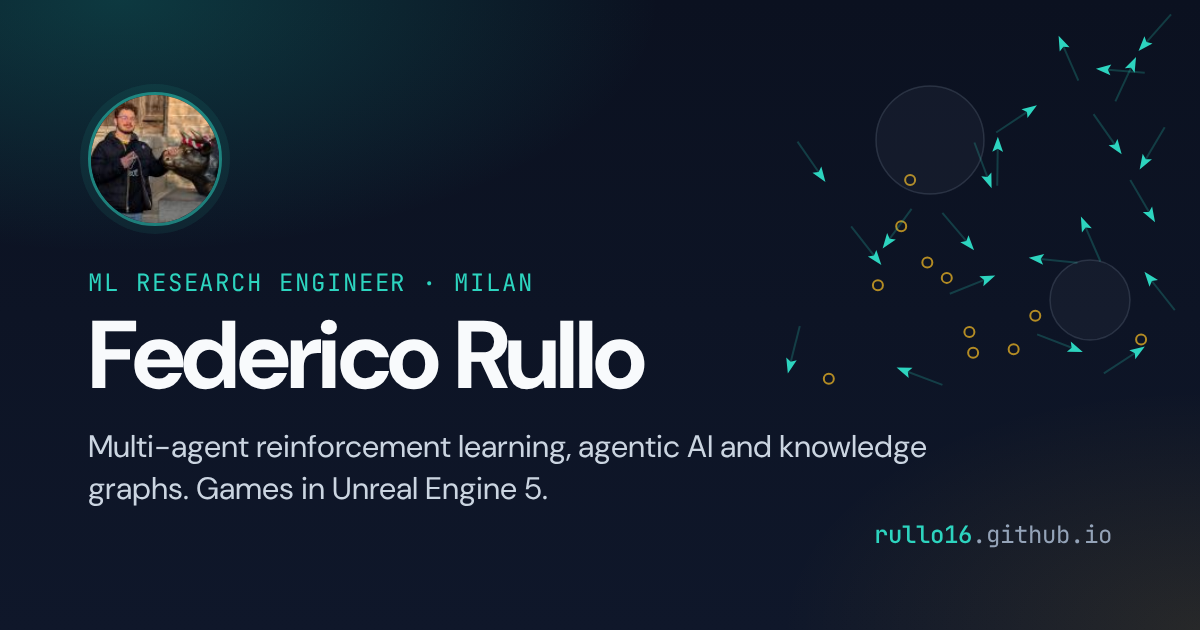
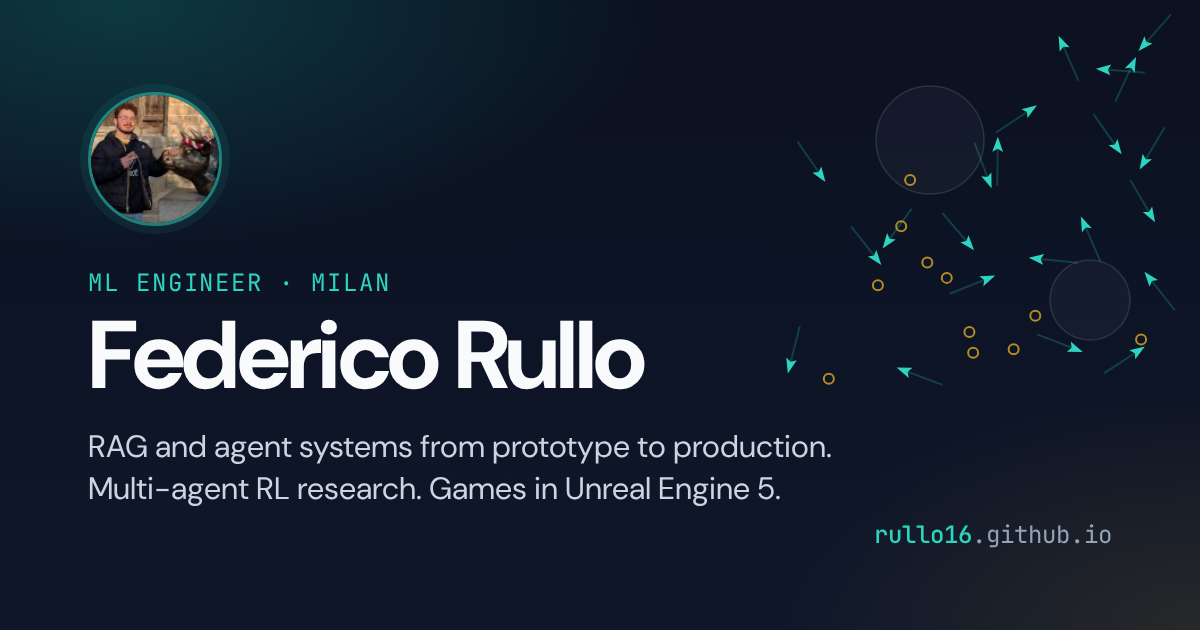
Align site with latest CV (#2)
- Title is now ML Engineer everywhere (hero, footer, SEO, social card)
  and the contact email is rullofederico@pm.me, matching the CV
- Home stats: 7 EU research projects (was 3) and a new tile for the
  large RAG fast-prototyping project; the row now wraps cleanly at any
  width
- Experience at GFT restructured per CV: Smart Compliance (team lead,
  4 engineers), VIGILANCE (task lead, 2 workstreams), REAICT, KYKLOS,
  and research and EU proposals (€2M+ secured, GRAVITON and AGENTIUM)
- Kyushu internship per CV: Oct 2024 to Apr 2025, MAPPO vs SAC,
  training-collapse fix, 96% success and 1.9x sample efficiency
- Projects: new Smart Compliance, REAICT and KYKLOS cards, VIGILANCE card
  rewritten, new RAG & agents and Data engineering filters
- Education: years added, MSc marked as coursework and dissertation
  completed (degree not conferred), BSc title matches the CV
- Skills regrouped to match the CV (LLMs & retrieval, agent frameworks,
  MLOps, data and storage, backend and infrastructure)
- Remove the Dungeon Adventure card: it is the same game as the HD-2D
  project
- Hero swarm: keep open space below the text on phones so goals never
  land on the text or icons

Claude-Session: https://claude.ai/code/session_01FXam8xwrwBDdLGjsupuZwB

Changed region(s): [[0.0617, 0.6937, 0.7708, 0.8143], [0.1233, 0.4222, 0.3392, 0.4825], [0.37, 0.4222, 0.4625, 0.4825]]

diff --git a/index.html b/index.html
@@ -14,14 +14,16 @@ scripts:
   <div class="hero__inner container">
     <div class="hero__content" data-swarm-avoid>
       <img class="hero__photo" src="{{ '/assets/profile-picture.jpg' | relative_url }}" alt="Portrait of Federico Rullo" width="104" height="104">
-      <p class="eyebrow eyebrow--hero">ML Research Engineer · Milan</p>
+      <p class="eyebrow eyebrow--hero">ML Engineer · Milan</p>
       <h1 class="hero__title" id="hero-title">Federico Rullo</h1>
       <p class="hero__lede">
-        I'm an ML Research Engineer at <strong>GFT Technologies SE</strong> in Milan, with
-        {{ years }}+ years of experience building production-grade AI systems and
-        leading EU-funded research projects.
+        I'm an ML Engineer at <strong>GFT Technologies SE</strong> in Milan, with
+        {{ years }}+ years of experience building and operating production AI systems and
+        leading teams on EU research projects. I take systems from prototype to commercial
+        deployment: retrieval and agent architecture, the backend that serves it, and the
+        MLOps and evaluation that make it safe to ship.
       </p>
-      <p class="hero__topics">Multi-agent RL · Agentic AI · Knowledge graphs · Game development</p>
+      <p class="hero__topics">RAG &amp; agents · MLOps · Multi-agent RL · Game development</p>
       <div class="hero__actions">
         <a class="btn btn--primary" href="{{ '/projects/' | relative_url }}">See my projects {% include icon.html name="arrow-right" px=16 %}</a>
         <a class="btn btn--ghost" href="mailto:{{ site.email }}">{% include icon.html name="mail" px=16 %} Get in touch</a>
@@ -41,7 +43,8 @@ scripts:
 <div class="container">
   <ul class="stats" aria-label="At a glance">
     <li class="stat"><span class="stat__value">{{ years }}+</span><span class="stat__label">Years in ML engineering</span></li>
-    <li class="stat"><span class="stat__value">3</span><span class="stat__label">EU research projects</span></li>
+    <li class="stat"><span class="stat__value">7</span><span class="stat__label">EU research projects</span></li>
+    <li class="stat"><span class="stat__value">1</span><span class="stat__label">Large RAG fast-prototyping project</span></li>
     <li class="stat"><span class="stat__value">3</span><span class="stat__label">Countries lived in</span></li>
     <li class="stat"><span class="stat__value">3</span><span class="stat__label">Languages spoken</span></li>
   </ul>
@@ -53,14 +56,14 @@ scripts:
     </div>
     <div class="grid grid--2">
       <article class="card now">
-        <p class="now__kicker">EU project</p>
+        <p class="now__kicker">EU project · Task lead</p>
         <h3>VIGILANCE</h3>
-        <p>Leading two tasks in an EU-funded Zero Trust Architecture cybersecurity platform: Data &amp; Knowledge Modelling (T5.1) and CyberSec Agents Orchestration (T5.4).</p>
+        <p>Leading the agent repository and orchestration workstreams of a cybersecurity agent platform: tool-using LangGraph agents over a Neo4j knowledge graph and Qdrant retrieval, with the evaluation harness and MLOps that decide what reaches production.</p>
       </article>
       <article class="card now">
-        <p class="now__kicker">Research consortium</p>
-        <h3>AGENTIUM</h3>
-        <p>Contributing to a consortium project on agentic AI systems and shaping GFT's technical strategy across multiple AI pillars.</p>
+        <p class="now__kicker">Research funding</p>
+        <h3>EU Horizon proposals</h3>
+        <p>Writing the AI side of EU proposals: €2M+ secured so far, plus technical contributions to the €45M GRAVITON and €35M AGENTIUM consortium bids.</p>
       </article>
       <article class="card now">
         <p class="now__kicker">Game development</p>
@@ -118,7 +121,7 @@ scripts:
 
   <section class="section contact" aria-labelledby="contact-title">
     <h2 id="contact-title">Let's talk</h2>
-    <p>Questions about multi-agent RL, agentic AI or one of my projects? Email is the quickest way to reach me.</p>
+    <p>Questions about RAG, agents, multi-agent RL or one of my projects? Email is the quickest way to reach me.</p>
     <div class="contact__actions">
       <a class="btn btn--primary" href="mailto:{{ site.email }}">{% include icon.html name="mail" px=16 %} {{ site.email }}</a>
       <a class="btn btn--ghost" href="https://www.linkedin.com/in/federico-rullo-683677145" target="_blank" rel="noopener">{% include icon.html name="linkedin" px=16 %} LinkedIn</a>

diff --git a/assets/css/main.css b/assets/css/main.css
@@ -341,6 +341,8 @@ kbd {
 }
 .hero__swarm { position: absolute; inset: 0; width: 100%; height: 100%; z-index: -1; }
 .hero__inner { padding-top: clamp(56px, 9vw, 104px); padding-bottom: clamp(88px, 11vw, 128px); }
+/* On phones the text fills the width, so leave open sky below it for the swarm. */
+@media (max-width: 640px) { .hero__inner { padding-bottom: 136px; } }
 .hero__content { max-width: 680px; }
 .hero__photo {
   width: 104px; height: 104px; border-radius: 50%; object-fit: cover; margin-bottom: 24px;
@@ -376,19 +378,13 @@ kbd {
 /* ── Home ───────────────────────────────────────────────────────────────── */
 .stats {
   position: relative; z-index: 1;
-  display: grid; grid-template-columns: repeat(4, 1fr); list-style: none;
+  display: flex; flex-wrap: wrap; gap: 1px; list-style: none; overflow: hidden;
   margin-top: -48px;
-  background: var(--surface); border: 1px solid var(--border); border-radius: var(--radius); box-shadow: var(--shadow-md);
+  background: var(--border); border: 1px solid var(--border); border-radius: var(--radius); box-shadow: var(--shadow-md);
 }
-.stat { display: flex; flex-direction: column; gap: 2px; padding: 22px 24px; }
-.stat + .stat { border-left: 1px solid var(--border); }
+.stat { flex: 1 1 160px; display: flex; flex-direction: column; gap: 2px; padding: 22px 24px; background: var(--surface); }
 .stat__value { font-size: clamp(1.8rem, 3.4vw, 2.3rem); font-weight: 700; letter-spacing: -0.03em; color: var(--text); line-height: 1.1; }
 .stat__label { font-size: 0.88rem; color: var(--text-3); }
-@media (max-width: 720px) {
-  .stats { grid-template-columns: 1fr 1fr; }
-  .stat:nth-child(3) { border-left: 0; }
-  .stat:nth-child(n + 3) { border-top: 1px solid var(--border); }
-}
 
 .now__kicker { font-family: var(--font-mono); font-size: 0.74rem; letter-spacing: 0.06em; text-transform: uppercase; color: var(--accent); margin-bottom: 6px; }
 .now h3 { margin-bottom: 8px; }
@@ -489,6 +485,11 @@ tr.is-highlight th, tr.is-highlight td { color: var(--text); font-weight: 700; b
 .job__meta { display: flex; flex-direction: column; gap: 4px; margin: 0; font-size: 0.88rem; color: var(--text-3); }
 .job__meta span { display: inline-flex; align-items: center; gap: 6px; }
 .job__summary { font-size: 1.02rem; color: var(--text); }
+.job__section-meta {
+  display: inline-block; margin-left: 10px; padding: 1px 8px; border-radius: 999px;
+  font-family: var(--font-body); font-size: 0.74rem; font-weight: 600; letter-spacing: 0; text-transform: none;
+  color: var(--amber); background: var(--amber-soft); vertical-align: 1px;
+}
 .job__section {
   font-family: var(--font-mono); font-size: 0.76rem; font-weight: 500; letter-spacing: 0.08em; text-transform: uppercase;
   color: var(--accent); margin: 24px 0 12px;
@@ -536,6 +537,8 @@ tr.is-highlight th, tr.is-highlight td { color: var(--text); font-weight: 700; b
 .edu__school { display: flex; flex-wrap: wrap; gap: 4px 12px; font-weight: 600; }
 .edu__school a { text-decoration: none; }
 .edu__place { font-weight: 400; color: var(--text-3); }
+.edu__years { display: inline-flex; align-items: center; gap: 6px; margin: 0 0 4px; font-size: 0.88rem; color: var(--text-3); }
+.edu__status { font-size: 0.9rem; color: var(--text-2); margin: 0 0 8px; }
 .edu__thesis { margin-top: 8px; padding: 16px; border-radius: var(--radius-sm); background: var(--surface-2); border: 1px solid var(--border); }
 .edu__label { font-family: var(--font-mono); font-size: 0.72rem; letter-spacing: 0.08em; text-transform: uppercase; color: var(--text-3); margin-bottom: 4px; }
 .edu__title { font-style: italic; color: var(--text); margin-bottom: 0; }

diff --git a/experience.html b/experience.html
@@ -4,8 +4,8 @@ title: Experience
 permalink: /experience/
 eyebrow: Career
 heading: Professional experience
-intro: From EU research leadership and LLM products at GFT to multi-agent RL research in Japan.
-description: Federico Rullo's professional experience as an ML Research Engineer at GFT Technologies and a deep reinforcement learning research intern at Kyushu University.
+intro: From RAG products and EU research at GFT to multi-agent RL research in Japan.
+description: Federico Rullo's professional experience as an ML Engineer at GFT Technologies, leading RAG, agent and EU research projects, and as a deep reinforcement learning research intern at Kyushu University.
 ---
 <ol class="timeline">
   {%- for job in site.data.experience %}
@@ -27,7 +27,7 @@ description: Federico Rullo's professional experience as an ML Research Engineer
       {%- if job.summary %}<p class="job__summary">{{ job.summary }}</p>{% endif %}
 
       {%- for section in job.sections %}
-      <h3 class="job__section">{{ section.title }}</h3>
+      <h3 class="job__section">{{ section.title }}{% if section.meta %}<span class="job__section-meta">{{ section.meta }}</span>{% endif %}</h3>
       <ul class="checklist">
         {%- for item in section.items %}
         <li>{{ item | markdownify | remove: '<p>' | remove: '</p>' | strip }}</li>

diff --git a/education.html b/education.html
@@ -4,8 +4,8 @@ title: Education
 permalink: /education/
 eyebrow: Study
 heading: Education
-intro: Two degrees, two dissertations, both on agents that learn to cooperate.
-description: Federico Rullo's education, an MSc in Artificial Intelligence from the University of Bologna and a BSc in Computing Science from the University of Aberdeen.
+intro: Two dissertations, both on agents that learn to cooperate.
+description: Federico Rullo's education in artificial intelligence at the University of Bologna and computing science at the University of Aberdeen.
 ---
 <div class="grid grid--2">
   {%- for e in site.data.education %}
@@ -16,6 +16,8 @@ description: Federico Rullo's education, an MSc in Artificial Intelligence from 
       {%- if e.url %}<a href="{{ e.url }}" target="_blank" rel="noopener">{{ e.school }}</a>{% else %}{{ e.school }}{% endif -%}
       <span class="edu__place">{{ e.location }}</span>
     </p>
+    {%- if e.years %}<p class="edu__years">{% include icon.html name="calendar" px=15 %}{{ e.years }}</p>{% endif %}
+    {%- if e.status %}<p class="edu__status">{{ e.status }}</p>{% endif %}
     <div class="edu__thesis">
       <p class="edu__label">Dissertation</p>
       <p class="edu__title">{{ e.thesis }}</p>

diff --git a/_includes/icon.html b/_includes/icon.html
@@ -27,6 +27,9 @@
 {%- when "calendar" -%}<path d="M8 2v4"/><path d="M16 2v4"/><rect width="18" height="18" x="3" y="4" rx="2"/><path d="M3 10h18"/>
 {%- when "play" -%}<path d="M6 3.5v17a.5.5 0 0 0 .76.43l14-8.5a.5.5 0 0 0 0-.86l-14-8.5A.5.5 0 0 0 6 3.5z" fill="currentColor" stroke="none"/>
 {%- when "cap" -%}<path d="M21.42 10.922a1 1 0 0 0-.019-1.838L12.83 5.18a2 2 0 0 0-1.66 0L2.6 9.08a1 1 0 0 0 0 1.832l8.57 3.908a2 2 0 0 0 1.66 0z"/><path d="M22 10v6"/><path d="M6 12.5V16a6 3 0 0 0 12 0v-3.5"/>
+{%- when "search" -%}<circle cx="11" cy="11" r="8"/><path d="m21 21-4.3-4.3"/>
+{%- when "bot" -%}<path d="M12 8V4H8"/><rect width="16" height="12" x="4" y="8" rx="2"/><path d="M2 14h2"/><path d="M20 14h2"/><path d="M15 13v2"/><path d="M9 13v2"/>
+{%- when "activity" -%}<path d="M22 12h-2.48a2 2 0 0 0-1.93 1.46l-2.35 8.36a.25.25 0 0 1-.48 0L9.24 2.18a.25.25 0 0 0-.48 0l-2.35 8.36A2 2 0 0 1 4.49 12H2"/>
 {%- when "globe" -%}<circle cx="12" cy="12" r="10"/><path d="M12 2a14.5 14.5 0 0 0 0 20 14.5 14.5 0 0 0 0-20"/><path d="M2 12h20"/>
 {%- when "maximize" -%}<path d="M8 3H5a2 2 0 0 0-2 2v3"/><path d="M21 8V5a2 2 0 0 0-2-2h-3"/><path d="M3 16v3a2 2 0 0 0 2 2h3"/><path d="M16 21h3a2 2 0 0 0 2-2v-3"/>
 {%- endcase -%}

diff --git a/assets/js/swarm.js b/assets/js/swarm.js
@@ -46,16 +46,19 @@
     return textBox && x > textBox.x0 - m && x < textBox.x1 + m && y > textBox.y0 - m && y < textBox.y1 + m;
   }
 
-  // The stats card overlaps the bottom of the hero, so keep goals above it.
+  // The stats card overlaps the bottom 48px of the hero, so keep goals above it.
   function freePoint(margin) {
+    var yMax = H - 60;
     for (var i = 0; i < 40; i++) {
-      var x = rand(24, W - 24), y = rand(24, H - 72), ok = !inTextBox(x, y, margin);
+      var x = rand(24, W - 24), y = rand(16, yMax), ok = !inTextBox(x, y, margin);
       for (var j = 0; ok && j < zones.length; j++) {
         if (Math.hypot(x - zones[j].x, y - zones[j].y) < zones[j].r + margin) ok = false;
       }
       if (ok) return { x: x, y: y };
     }
-    return { x: rand(24, W - 24), y: rand(24, H - 72) };
+    // On narrow screens the text fills most of the hero: use the strip below it.
+    var below = textBox ? Math.min(textBox.y1 + margin, yMax) : 16;
+    return { x: rand(24, W - 24), y: rand(below, yMax) };
   }
 
   // After the text block moves (fonts loading, resize), move any goal that

diff --git a/projects.html b/projects.html
@@ -4,8 +4,8 @@ title: Projects
 permalink: /projects/
 eyebrow: Work
 heading: Projects
-intro: Research and engineering across multi-agent reinforcement learning, agentic AI, NLP and vision.
-description: Projects by Federico Rullo, including MAPPO for multi-agent drone navigation, cybersecurity knowledge graphs for AI agents, and NLP pipelines.
+intro: Production RAG and agent systems, EU research, and multi-agent reinforcement learning.
+description: Projects by Federico Rullo, including a RAG compliance product, a cybersecurity agent platform, a Graph-RAG knowledge base and MAPPO for multi-agent drone navigation.
 ---
 {%- assign data = site.data.projects -%}
 

diff --git a/skills.html b/skills.html
@@ -5,7 +5,7 @@ permalink: /skills/
 eyebrow: Toolbox
 heading: Technical skills
 intro: The languages, frameworks and methods I use day to day, in research and in production.
-description: Technical skills of Federico Rullo, covering Python, PyTorch, multi-agent reinforcement learning, LLM agent frameworks, knowledge graphs, cloud and game engines.
+description: Technical skills of Federico Rullo, covering Python, PyTorch, RAG and retrieval, agent frameworks, MLOps, data stores, cloud infrastructure and game engines.
 ---
 <div class="grid grid--2 skills">
   {%- for g in site.data.skills.groups %}

diff --git a/_includes/site-footer.html b/_includes/site-footer.html
@@ -2,7 +2,7 @@
   <div class="footer__inner container">
     <div>
       <p class="footer__name">Federico Rullo</p>
-      <p class="footer__meta">ML Research Engineer · Milan, Italy</p>
+      <p class="footer__meta">ML Engineer · Milan, Italy</p>
     </div>
     <ul class="social" aria-label="Contact and profiles">
       {%- for link in site.data.social %}

diff --git a/README.md b/README.md
@@ -1,6 +1,6 @@
 # rullo16.github.io
 
-Personal website of **Federico Rullo**, ML Research Engineer (multi-agent RL, agentic AI, game development).
+Personal website of **Federico Rullo**, ML Engineer (RAG and agent systems, MLOps, multi-agent RL, game development).
 Built with Jekyll and deployed to GitHub Pages by the workflow in `.github/workflows/jekyll-gh-pages.yml`.
 
 Live at <https://rullo16.github.io>.
